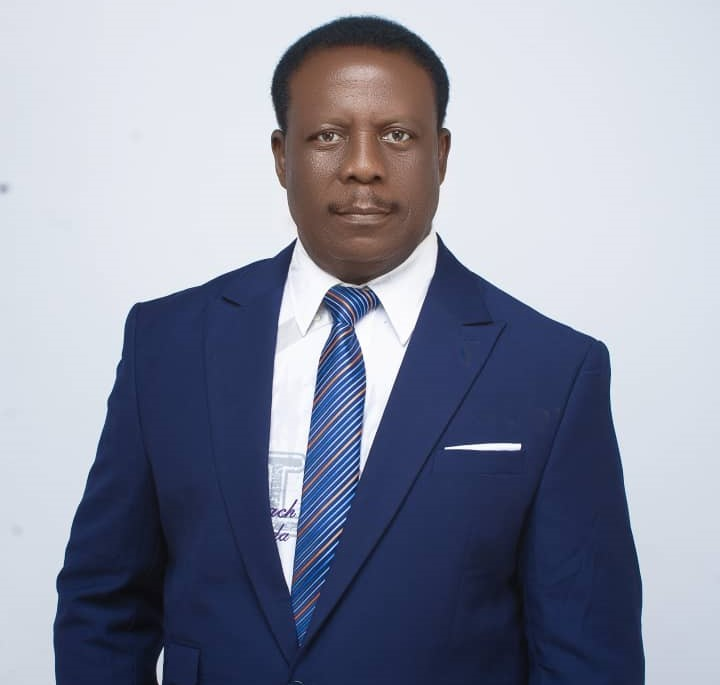
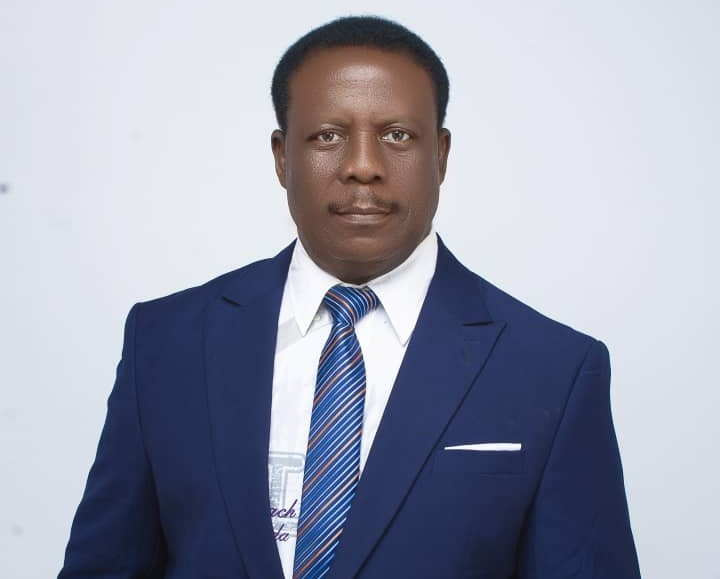
Update chairman photo and fix event organizer typo
Replaces the chairman.jpg image with a new version and corrects a minor punctuation issue in the event organizer's name in events.html.

diff --git a/events.html b/events.html
@@ -82,7 +82,7 @@
       <tr>
         <td>December 31, 2025</td>
         <td>Family General Meeting,family get-together, awards, and celebration of progress made in the year.</td>
-        <td>Obi Duruishmbu</td>
+        <td>Obi Duruishmbu.</td>
       </tr>
       <tr>
         <td>June, 2026</td>
